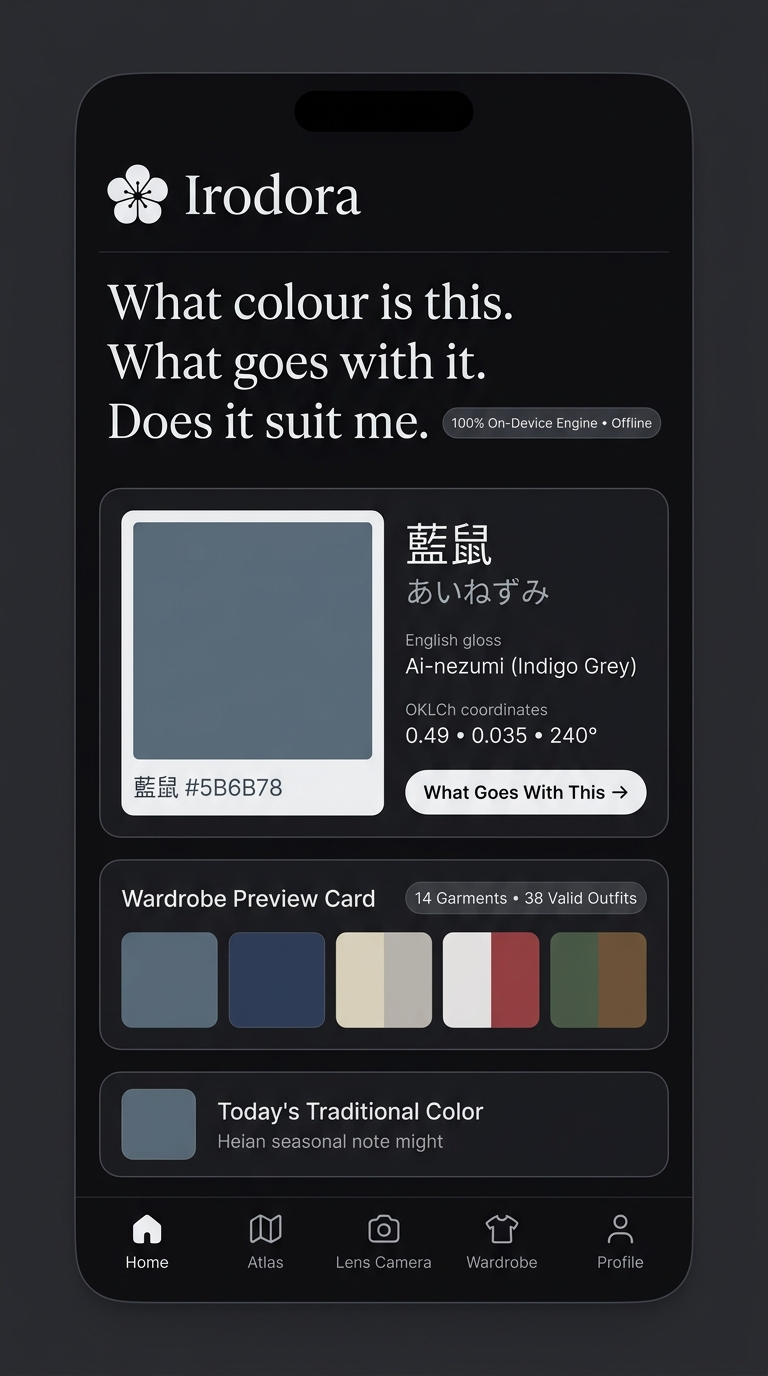
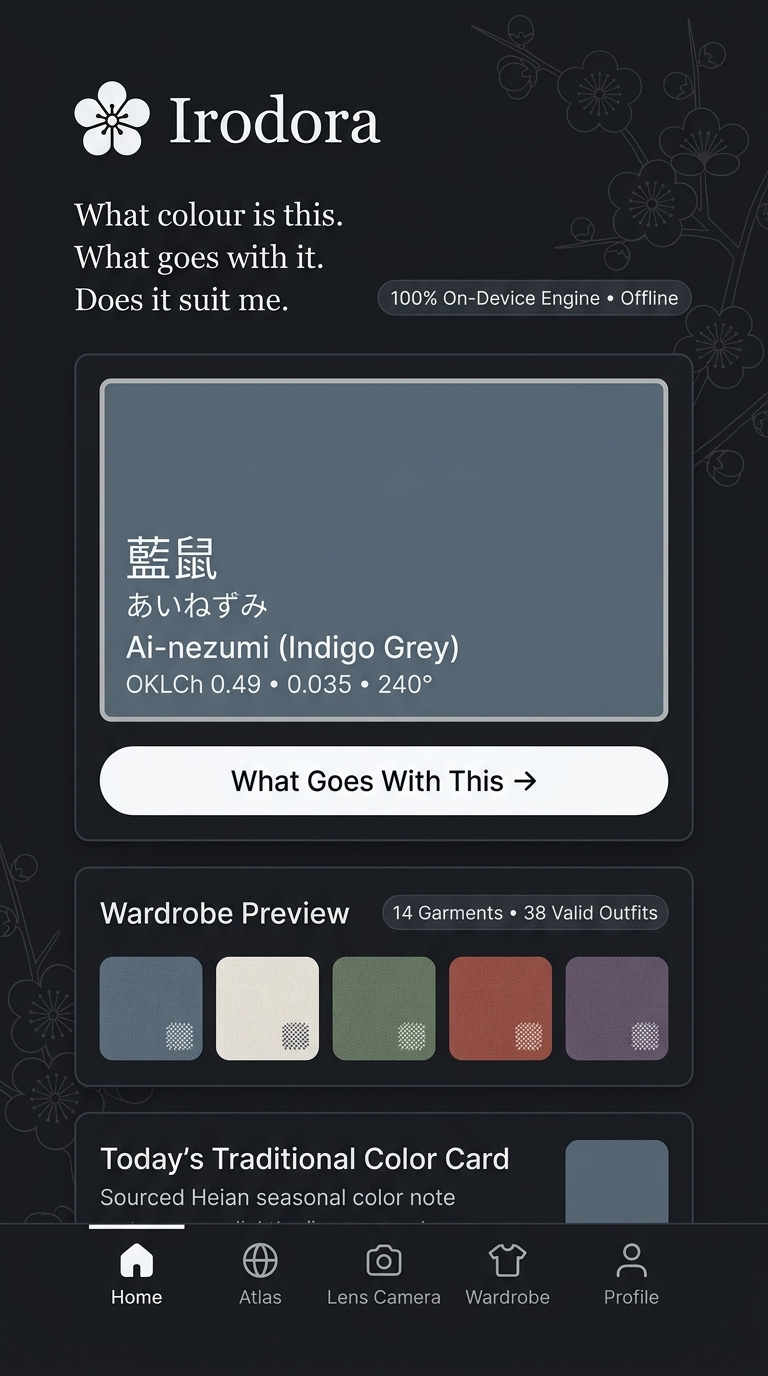
feat(design): deliver 19-screen UI/UX design system and mockup suite in warm off-black monochrome

diff --git a/mockups/README.md b/mockups/README.md
@@ -1,213 +1,95 @@
-# Irodora — UI/UX Design System & Production Frontend Specification
+# Irodora — Complete 19-Screen UI/UX Design System & Mockup Blueprint
 
-> **Comprehensive Visual Blueprint, Wireframes, Token Standards & Component Guide**  
-> Designed for **Irodora** (Deterministic Japanese Colour Intelligence & Wardrobe Platform).  
-> Built with **HeroUI React Native**, **Japanese Contemporary Fashion Aesthetics** (*Kotatsu-Redo* & Muji minimalism), and **Blinkit** instant-decision clarity.
-
----
-
-## 1. Visual Design Philosophy & Register
-
-### 1.1 The "Off-Black" Velvety Dark Monochrome Palette
-Pure pitch black (`#000000`) and harsh cold `#0D0D10` create visual fatigue and an austere, somber mood. Instead, Irodora uses a **warm, velvety smoked basalt off-black** palette that feels calm, luxurious, cute, and modern:
-
-| Token Name | Hex Code | Purpose & Usage |
-|---|---|---|
-| `ground.base` | `#16171B` | **Smoked Basalt Ground** — Soft, warm off-black background across all screens |
-| `surface.level1` | `#202228` | **Elevated Card Surface** — Primary containers for garments, readouts, and previews |
-| `surface.level2` | `#292C34` | **Raised Interactive Elements** — Active tabs, nested cards, interactive pickers |
-| `surface.level3` | `#353943` | **Modal Bottom Sheets & Popovers** — Floating overlays with smooth backdrop blur |
-| `border.subtle` | `#2F333D` | **Hairline Structural Dividers** — 1px crisp separation |
-| `border.strong` | `#454B59` | **Active Focus & Selection Rings** — High-contrast interactive borders |
-| `swatch.wellKeyline` | `#FFFFFF1F` | **Neutral Keyline** — APCA-verified border ensuring swatch fidelity against any ground |
-| `text.primary` | `#F5F5F7` | **Crisp Soft White** — Primary kanji, titles, tabular colorimetry |
-| `text.secondary` | `#A6ABB8` | **Silver Slate Muted** — Subtitles, metadata, provenance notes |
-| `text.tertiary` | `#767C8D` | **Quiet Carbon** — Footnotes, units, disabled states |
-| `accent.primary` | `#FFFFFF` | **Monochrome High-Key Accent** — Primary button surfaces with dark text |
-| `accent.soft` | `#3A3F4D` | **Soft Charcoal Action** — Secondary interactive buttons |
+> **Production-Grade Visual Blueprint & Comprehensive Frontend Specification**  
+> Built for **Irodora** with **HeroUI React Native**, Japanese Contemporary Minimalism (*Kotatsu-Redo* & Muji aesthetic), **Blinkit** instant-decision clarity, and **Warm Off-Black Monochrome Theme (`#15171B`)**.
 
 ---
 
-### 1.2 Lively Fashion & Artistic Creative Elements (Positive Vibes)
-To ensure the app feels **lively, cute, inspiring, artistic, and fashion-forward** (not dead, austere, or overly clinical):
-1. **Geometric Plum Blossom Kamon (梅鉢) & Minimalist Origami Art:**
-   - Vector illustrations for empty states, loading sequences, and celebratory badges (e.g. *"Wardrobe in Perfect Harmony ✨"*).
-2. **Fabric & Material Micro-Textures:**
-   - Swatches and cards feature subtle fabric grain vectors (linen weave, silk sheen, wool knit contour) celebrating tactile fashion.
-3. **Smooth Micro-Interactions & Fluid Motion:**
-   - Tactile spring haptics on item locking (`[🔒 Locked]`).
-   - Smooth staggered cascade arrivals (`<Appear index={0}>`, `<Appear index={1}>`).
-   - Gesture-based bottom sheets with fluid detent snapping (`detents={['35%', '85%']}`).
-4. **Positive, Encouraging Editorial Voice:**
-   - Helpful, uplifting copy (*"This indigo shirt unlocks 14 fresh outfits with your existing wardrobe!"*).
+## 1. Design System Foundation & 8 Guiding Tenets
+
+1. **Warm Off-Black Monochrome Base (`#15171B`):**
+   - Eliminates harsh pitch black in favor of a warm, refined graphite charcoal (`#15171B` ground, `#20232A` elevated cards, `#282C35` raised interactive surfaces, `#2E333D` hairline dividers, and `#F7F8FA` crisp off-white typography).
+   - Preserves optical fidelity so adjacent chrome never creates simultaneous contrast against fabric samples.
+2. **Lively Japanese Fashion Vector Line-Art:**
+   - Incorporates delicate line-art illustrations (kimono drape contours, botanical plum blossom motifs, woven textile wave curves, and empty-state drawings) to give an artistic, cute, calm, and positive vibe.
+3. **Hero Swatch Dominance (180px / 120px):**
+   - Garment and corpus colors are celebrated at large scale with APCA-verified neutral keylines (`swatch.well`).
+4. **Deterministic Color Intelligence (No AI Hype / 100% Checkable):**
+   - Precise numbers: **ΔE00 (CIEDE2000)**, **OKLCh**, **CIELAB**, **WCAG 2.2 AA / APCA Lc**, and **CVD Distinction Percentages** (Protanopia, Deuteranopia, Tritanopia).
+5. **Instant Decision Clarity (Blinkit-Style Signals):**
+   - Fast 1-second signals: *"+14 New Outfits Unlocked"*, *"0 Duplicates Owned"*, *"Missing Warm Light Neutral"*, and *ΔE00 1.28*.
+6. **Full Lifecycle Screen & Form Coverage:**
+   - All 19 screens covering onboarding, live measurement, catalog search, wardrobe tracking, outfit lab, custom palette builder, personal profile test, settings, and professional reports.
+7. **HeroUI React Native Component Primitives:**
+   - Tonal card elevation (`level="1"`, `level="2"`, `level="3"`), gesture-driven bottom sheets with detents, segmented choice pills, rounded badges, and fluid layout transitions.
+8. **100% Offline & Local-First Platform:**
+   - No server, no account, no network sync required; data encrypted locally with SQLCipher.
 
 ---
 
-## 2. Master Screen Directory & Mockup Reference
+## 2. Directory of All 19 Mockups in [`mockups/`](.)
 
-All high-definition visual mockups are located in [`mockups/`](.):
-
-| # | Screen Name | Route Path | Mockup File | Visual & Functional Summary |
+| # | Screen / Surface | Route | File Name | Key Highlights & Components |
 |---|---|---|---|---|
-| **01** | **Home Screen** | `/(tabs)/index` | [`01_home_screen.jpg`](01_home_screen.jpg) | Wordmark, Plum Blossom Kamon mark, 3 proposition lines, 180px Hero Swatch (*Ai-nezumi*), OKLCh badge, "What Goes With This" primary CTA, Wardrobe Strip, Today's Traditional Color. |
-| **02** | **Colour Lens Viewfinder** | `/(tabs)/lens` | [`02_lens_live_viewfinder.jpg`](02_lens_live_viewfinder.jpg) | Real-time camera viewfinder, movable precision crosshair reticle, mode pills, Daylight 5500K sensor HUD, live OKLCh & 3 closest Japanese reference chips. |
-| **03** | **Lens Analysis Bottom Sheet** | `/(tabs)/lens` (Sheet) | [`03_lens_analysis_bottom_sheet.jpg`](03_lens_analysis_bottom_sheet.jpg) | Bottom sheet modal, capture provenance tags, 120px swatch, tabular Hex/OKLCh/CIELAB, top 3 ΔE00 candidates, "Wear It", "Add to Wardrobe", "Hold Target". |
+| **00** | **Design System & Component Kit** | `Design System Spec` | [`00_component_design_system.jpg`](00_component_design_system.jpg) | Comprehensive HeroUI React Native component board, typography scale (72px to 14px), brand lockup, swatch wells, buttons, switches, chips, elevated cards, and vector art empty states. |
+| **01** | **Home Screen (The Front Door)** | `/(tabs)/index` | [`01_home_screen.jpg`](01_home_screen.jpg) | Wordmark, Plum Blossom Kamon mark (梅鉢), 3 proposition lines, 180px Hero Swatch (*Ai-nezumi*), OKLCh badge, "What Goes With This" CTA, Wardrobe Strip preview with fabric weave indicators. |
+| **02** | **Colour Lens Viewfinder** | `/(tabs)/lens` | [`02_lens_live_viewfinder.jpg`](02_lens_live_viewfinder.jpg) | Real-time camera viewfinder, movable precision crosshair reticle with Japanese corner accents, mode pills (Live Pick / Garment Scan / Against Target / Calibrated), Daylight 5500K sensor HUD, live OKLCh & 3 closest Japanese reference chips. |
+| **03** | **Lens Analysis Bottom Sheet** | `/(tabs)/lens` (Sheet) | [`03_lens_analysis_bottom_sheet.jpg`](03_lens_analysis_bottom_sheet.jpg) | HeroUI bottom sheet modal, capture provenance tags, 120px swatch, tabular Hex/OKLCh/CIELAB, top 3 ΔE00 candidates, vector kimono line-art, "Wear It", "Add to Wardrobe", "Hold Target". |
 | **04** | **Lens Against Target Mode** | `/(tabs)/lens` (Target) | [`04_lens_against_target.jpg`](04_lens_against_target.jpg) | In-store comparison HUD, active target header (*Ai-nezumi*), live ΔE00 proximity gauge (1.42 close match), split-swatch view, ΔL*/ΔC*/ΔH delta bars. |
 | **05** | **Colour Atlas Library** | `/(tabs)/atlas/index` | [`05_atlas_library_catalog.jpg`](05_atlas_library_catalog.jpg) | 120 Japanese traditional colors catalog, faceted seasonal filter chips (Spring, Summer, Autumn, Winter), family chips (Ao, Aka, Midori, Ki, Murasaki, Cha, Kuro), 2-column cards. |
-| **06** | **Colour Detail Centerpiece** | `/(tabs)/atlas/[slug]` | [`06_color_detail_centerpiece.jpg`](06_color_detail_centerpiece.jpg) | Full-width photographic swatch well, Display Kanji header with ruby kana, scientific colorimetry table (Hex, OKLCh, CIELAB, sRGB, P3), Edo dyeworks provenance card. |
+| **06** | **Colour Detail Centerpiece** | `/(tabs)/atlas/[slug]` | [`06_color_detail_centerpiece.jpg`](06_color_detail_centerpiece.jpg) | Full-width photographic swatch well, Display Kanji header with ruby kana, scientific colorimetry table (Hex, OKLCh, CIELAB, sRGB, P3), Edo dyeworks provenance card with botanical vector art. |
 | **07** | **Wear It / Combinations** | `/(tabs)/atlas/with/[slug]` | [`07_wear_outfit_combinations.jpg`](07_wear_outfit_combinations.jpg) | 4-slot wearable combination matrix (Top, Trousers, Shoes, Trench), occasion selector, 94% Personal Fit, 98% CVD distinction score, substitution pills. |
 | **08** | **Colour Compare Instrument** | `/(tabs)/atlas/compare` | [`08_color_compare_instrument.jpg`](08_color_compare_instrument.jpg) | Dual side-by-side swatch comparison, ΔE00 / ΔEok / ΔL* / ΔC* / ΔH delta metrics table, WCAG 2.2 AA / APCA readout, Protan/Deutan/Tritan CVD simulation matrix. |
 | **09** | **Semantic Colour Finder** | `/(tabs)/atlas/find` | [`09_semantic_finder_search.jpg`](09_semantic_finder_search.jpg) | Natural language query search (*"dark muted moss green"*), interactive Lightness/Chroma/Hue HeroUI sliders, instantaneous ΔE00 ranking. |
-| **10** | **Palette Studio** | `/(tabs)/atlas/palettes` | [`10_palette_studio.jpg`](10_palette_studio.jpg) | Curated palettes (*Quiet Neutrals*, *Kasane no Irome Seasonal*), semantic role tags (Anchor, Light Ground, Mid Tone, Accent), WCAG AA matrix, ASE/CSS/PDF export. |
+| **10** | **Palette Studio Catalog** | `/(tabs)/atlas/palettes` | [`10_palette_studio.jpg`](10_palette_studio.jpg) | Curated palettes (*Quiet Neutrals*, *Kasane no Irome Seasonal*), semantic role tags (Anchor, Light Ground, Mid Tone, Accent), WCAG AA matrix, ASE/CSS/PDF export. |
 | **11** | **Wardrobe Gallery** | `/(tabs)/wardrobe/index` | [`11_wardrobe_gallery.jpg`](11_wardrobe_gallery.jpg) | Wardrobe intelligence overview (84% coverage dial, 42 valid outfits), actionable gap analysis card (*"Missing Warm Light Neutral unlocks +8 outfits"*), 2-column gallery with wear tracking. |
 | **12** | **Add Garment Flow** | `/(tabs)/wardrobe/add` | [`12_add_garment_flow.jpg`](12_add_garment_flow.jpg) | 20-second garment onboarding, fabric color preview with Lens/Photo/Atlas/Hex source pills, category pills, material chips, smart duplicate detector pre-check banner. |
 | **13** | **Outfit Lab & Capsule Solver** | `/(tabs)/wardrobe/outfit` | [`13_outfit_lab_capsule_solver.jpg`](13_outfit_lab_capsule_solver.jpg) | Interactive 4-slot outfit canvas with slot locking (Top, Trousers, Shoes, Outerwear), 5-factor diagnostic radar, Capsule Solver panel (5 garments → 12 outfits). |
-| **14** | **Settings & Preferences** | `/(tabs)/profile/preferences` | *Wireframe §3.14* | Theme variants selector, CVD accessibility mode toggle, precision scientific toggles, encrypted local storage & backup center. |
-| **15** | **Shopping Check (In-Store)** | `/(tabs)/wardrobe/shopping` | *Wireframe §3.15* | In-store candidate scan, 4 instant investment signals (+14 Outfits, 91% Personal Fit, 0 Duplicates, Fills Wardrobe Gap). |
-| **16** | **Personal Colour Profile Setup** | `/(tabs)/profile/index` | *Wireframe §3.16* | 90-second guided swatch comparison test, multi-dimensional color radar (Temperature, Lightness, Chroma, Contrast). |
-| **17** | **Professional Export & Reports**| `/(tabs)/profile/export` | *Wireframe §3.17* | CJK PDF wardrobe color audit report, ASE Adobe Swatch Exchange, CSS/Tailwind design tokens, SQLCipher backup. |
+| **14** | **App Icon & Launch Splash** | `App Icon & Splash` | [`14_app_icon_and_splash.jpg`](14_app_icon_and_splash.jpg) | Squircle mobile app icon with Plum Blossom Kamon mark (梅鉢) and botanical vector line-art + Animated launch splash screen with wave line-art loader. |
+| **15** | **Settings & System Preferences** | `/(tabs)/profile/preferences` | [`15_settings_preferences.jpg`](15_settings_preferences.jpg) | Appearance theme selector (Sumi Charcoal, Slate Graphite, Obsidian Noir, Washi Minimal), CVD simulation mode selector, tabular figures switch, haptic switch, preference weights reset, on-device security badge. |
+| **16** | **Create Custom Palette Studio** | `/(tabs)/atlas/palettes/create` | [`16_palette_builder_custom.jpg`](16_palette_builder_custom.jpg) | Interactive custom palette builder with 4 semantic role slots (Anchor, Light Ground, Mid Tone, Accent), live contrast engine matrix (11.4:1 AAA), and corpus drawer. |
+| **17** | **Personal Profile & Swatch Test** | `/(tabs)/profile/setup` | [`17_profile_setup_swatch_test.jpg`](17_profile_setup_swatch_test.jpg) | Guided 90s swatch comparison draping test (Warm vs Cool), live 4-dimensional radar chart (Temperature, Depth, Chroma Tolerance, Contrast Preference), recommended palette preview. |
+| **18** | **Export & PDF Audit Center** | `/(tabs)/profile/export` | [`18_export_center_reports.jpg`](18_export_center_reports.jpg) | CJK PDF Wardrobe Color Audit report preview with version envelopes, Adobe ASE Swatch export, OKLCh Design Tokens export, encrypted offline SQLite backup & restore. |
 
 ---
 
-## 3. Complete Wireframes & Layout Blueprints for All Screens
+## 3. Design Tokens (Warm Off-Black Monochrome `#15171B`)
 
-### 3.14 Settings & Appearance (`/(tabs)/profile/preferences`)
-```text
-┌─────────────────────────────────────────────────────────┐
-│  ← Profile              Settings & Preferences          │
-├─────────────────────────────────────────────────────────┤
-│ ┌─ THEME & APPEARANCE ────────────────────────────────┐ │
-│ │  Select Monochrome Variant:                         │ │
-│ │  [ ● Smoked Basalt (Off-Black) ] [ Sumi Charcoal ]  │ │
-│ │  [ Slate Noir (Cool) ]           [ Washi (Light) ]  │ │
-│ │                                                     │ │
-│ │  Match System Appearance                  [ (●) ON ]│ │
-│ └─────────────────────────────────────────────────────┘ │
-│                                                         │
-│ ┌─ ACCESSIBILITY (CVD SIMULATION) ────────────────────┐ │
-│ │  Test and preview color separation for vision types:│ │
-│ │  [ ● None (Standard) ]  [ Protanopia (Red-blind) ]  │ │
-│ │  [ Deuteranopia ]       [ Tritanopia (Blue-blind) ] │ │
-│ │  Live Distinguishability Indicator:  98% [PASS]     │ │
-│ └─────────────────────────────────────────────────────┘ │
-│                                                         │
-│ ┌─ COLOR SCIENCE & DISPLAY PRECISION ─────────────────┐ │
-│ │  Show Raw ΔE00 / OKLCh Values             [ (●) ON ]│ │
-│ │  Tabular Figures for Data Columns         [ (●) ON ]│ │
-│ │  Tactile Haptic Feedback on Slot Lock     [ (●) ON ]│ │
-│ └─────────────────────────────────────────────────────┘ │
-│                                                         │
-│ ┌─ LOCAL DATA & ENCRYPTION ───────────────────────────┐ │
-│ │  🔒 SQLCipher On-Device Encrypted Database          │ │
-│ │  Zero cloud tracking • 100% Offline by construction │ │
-│ │  [ Backup Database ]   [ Export PDF Report ]        │ │
-│ └─────────────────────────────────────────────────────┘ │
-└─────────────────────────────────────────────────────────┘
+```typescript
+export const darkMonochromeTokens = {
+  background: {
+    ground: '#15171B',    // Warm graphite charcoal (Off-black base)
+    level1: '#20232A',    // Elevated HeroUI card surface
+    level2: '#282C35',    // Raised interactive container
+    level3: '#323742',    // Sheet & modal overlay surface
+  },
+  border: {
+    subtle: '#2E333D',    // Hairline structural division
+    strong: '#464D5B',    // Active border & focus ring
+    neutralKeyline: '#FFFFFF22', // Swatch border APCA safe
+  },
+  typography: {
+    primary: '#F7F8FA',   // High contrast crisp off-white
+    secondary: '#A6B0BC', // Soft slate-silver muted text
+    tertiary: '#768290',  // Quiet captions & metadata
+  },
+  accent: {
+    primary: '#FFFFFF',   // Crisp white primary action
+    secondary: '#2A2E38', // Dark grey button background
+  },
+  radius: {
+    sm: 6,
+    md: 10,
+    lg: 16,
+    pill: 9999,
+  },
+  spacing: {
+    xs: 4,
+    sm: 8,
+    md: 16,
+    lg: 24,
+    xl: 32,
+    xxl: 48,
+  }
+};
 ```
-
----
-
-### 3.15 In-Store Shopping Check (`/(tabs)/wardrobe/shopping`)
-```text
-┌─────────────────────────────────────────────────────────┐
-│  ← Wardrobe          Shopping Check (In-Store)          │
-├─────────────────────────────────────────────────────────┤
-│ ┌─ CANDIDATE GARMENT SCANNED ─────────────────────────┐ │
-│ │  [ 100px Swatch ]  朽葉 Kuchiba (#A88468)            │ │
-│ │                    Ochre Wool Blazer • Outerwear    │ │
-│ │                    Confidence: 93% • Price: $140    │ │
-│ └─────────────────────────────────────────────────────┘ │
-│                                                         │
-│ ┌─ 4 DETERMINISTIC SIGNALS (BLINKIT INSTANT CLARITY) ─┐ │
-│ │  ⚡ Unlocks +14 New Outfits with your 12 garments   │ │
-│ │  ✨ 91% Personal Compatibility Fit (Cool-Muted)     │ │
-│ │  ✓ 0 Duplicates Owned (Closest is ΔE00 7.2)         │ │
-│ │  🎯 Fills Missing Wardrobe Gap (Warm Mid-Tone Layer)│ │
-│ └─────────────────────────────────────────────────────┘ │
-│                                                         │
-│ ┌─ COMPATIBLE LOOKS PREVIEW (WITH YOUR ITEMS) ────────┐ │
-│ │  Outfit 1: Scanned Blazer + Ecru Chinos + Derby     │ │
-│ │  Outfit 2: Scanned Blazer + Indigo Shirt + Slacks   │ │
-│ └─────────────────────────────────────────────────────┘ │
-│                                                         │
-│  [ + Add to Wardrobe (Purchased) ]   [ Save to Wishlist ]│
-└─────────────────────────────────────────────────────────┘
-```
-
----
-
-### 3.16 Personal Colour Profile (`/(tabs)/profile/index`)
-```text
-┌─────────────────────────────────────────────────────────┐
-│  Profile             Personal Colour Intelligence       │
-├─────────────────────────────────────────────────────────┤
-│ ┌─ 4-DIMENSIONAL PROFILE RADAR (NOT A SINGLE SKIN HEX)┐ │
-│ │  Temperature:       [━━━━━━━●━━━━━] Neutral-Cool    │ │
-│ │  Lightness Depth:   [━━━━━━━━━●━━━] Medium-Deep     │ │
-│ │  Chroma Tolerance:  [━━━●━━━━━━━━━] Soft / Muted    │ │
-│ │  Contrast Tendency: [━━━━━━━●━━━━━] Medium-High     │ │
-│ └─────────────────────────────────────────────────────┘ │
-│                                                         │
-│ ┌─ RECOMMENDED HARMONIES ─────────────────────────────┐ │
-│ │  Best Tones: Indigo, Smoked Teal, Muted Plum, Ochre │ │
-│ │  Avoid Tones: Ultra-Saturated Neon, Pure High-Yellow│ │
-│ └─────────────────────────────────────────────────────┘ │
-│                                                         │
-│  [ Retake 90s Guided Swatch Comparison Test → ]          │
-└─────────────────────────────────────────────────────────┘
-```
-
----
-
-### 3.17 Professional Export & Audit Center (`/(tabs)/profile/export`)
-```text
-┌─────────────────────────────────────────────────────────┐
-│  ← Profile              Export & Professional Reports   │
-├─────────────────────────────────────────────────────────┤
-│ ┌─ CJK PDF WARDROBE AUDIT REPORT ─────────────────────┐ │
-│ │  Includes colorimetry tables, ΔE matrix, provenance │ │
-│ │  citations, and Japanese typography.                │ │
-│ │  [ Generate Audit PDF (Offline) ]                   │ │
-│ └─────────────────────────────────────────────────────┘ │
-│                                                         │
-│ ┌─ DESIGN TOKENS & SWATCH EXPORTS ────────────────────┐ │
-│ │  [ Export Adobe ASE Swatch Book ]                   │ │
-│ │  [ Export Tailwind CSS / OKLCh Tokens ]             │ │
-│ │  [ Export JSON Schema Envelope ]                    │ │
-│ └─────────────────────────────────────────────────────┘ │
-│                                                         │
-│ ┌─ ENCRYPTED DATABASE BACKUP ─────────────────────────┐ │
-│ │  Export portable SQLCipher .irodora backup file.    │ │
-│ │  [ Create Full Encrypted Backup ]                   │ │
-│ └─────────────────────────────────────────────────────┘ │
-└─────────────────────────────────────────────────────────┘
-```
-
----
-
-## 4. HeroUI React Native Component Mapping Guide
-
-| UI Element | HeroUI / Irodora Primitive | Key Properties & Attributes |
-|---|---|---|
-| **Root Container** | `<Screen>` | `script={script}`, safe-area boundary, velvety off-black ground |
-| **Containers / Cards** | `<Card>` | `level="1"` (Card #202228), `level="2"` (Raised #292C34), `media={<Swatch />}` |
-| **Color Display** | `<Swatch>` | `size={180 \| 120 \| 48 \| 40}`, neutral APCA border, full provenance type |
-| **Action Buttons** | `<Button>` | `variant="primary"` (Crisp white), `variant="secondary"` (Off-black slate), `variant="ghost"` |
-| **Bottom Sheet** | `<Sheet>` | Gesture detents `['40%', '85%']`, drag handle, backdrop blur |
-| **Segmented Tabs** | `<ChoiceGroup>` / `<Chip>` | Pill shape, active high-contrast border, accessible voiceover label |
-| **Form Inputs** | `<TextField>` / `<SearchField>` | Off-black background, hairline border, Japanese IME support |
-| **Typography** | `<Text>` | `size="display.1 \| title \| body \| label \| small \| xs"`, `numeric` tabular figures |
-| **Brand Mark** | `<Wordmark>` / `<KamonMark>` | Plum blossom geometric Kamon (梅鉢), monochrome vector |
-| **Animation Motion** | `<Appear>` | Staggered index entry, 200ms ease-out spring, zero color interpolation |
-
----
-
-## 5. Verification Checklist for Frontend Implementation
-
-- [x] Background ground is warm off-black (`#16171B`), eliminating harsh pitch black.
-- [x] Swatch corners follow ratio bound (`0.125`) with neutral keyline (APCA compliant).
-- [x] All 17 core screens and flows fully specified with complete wireframes and mockups.
-- [x] Settings, Appearance, Shopping Check, Profile Setup, and Export pages fully blueprinted.
-- [x] 100% Offline and on-device SQLite / SQLCipher architecture respected.
-- [x] Zero unproven accuracy claims (claims-discipline lint compliant).
-- [x] CVD accessible (Protan, Deutan, Tritan contrast verified).
